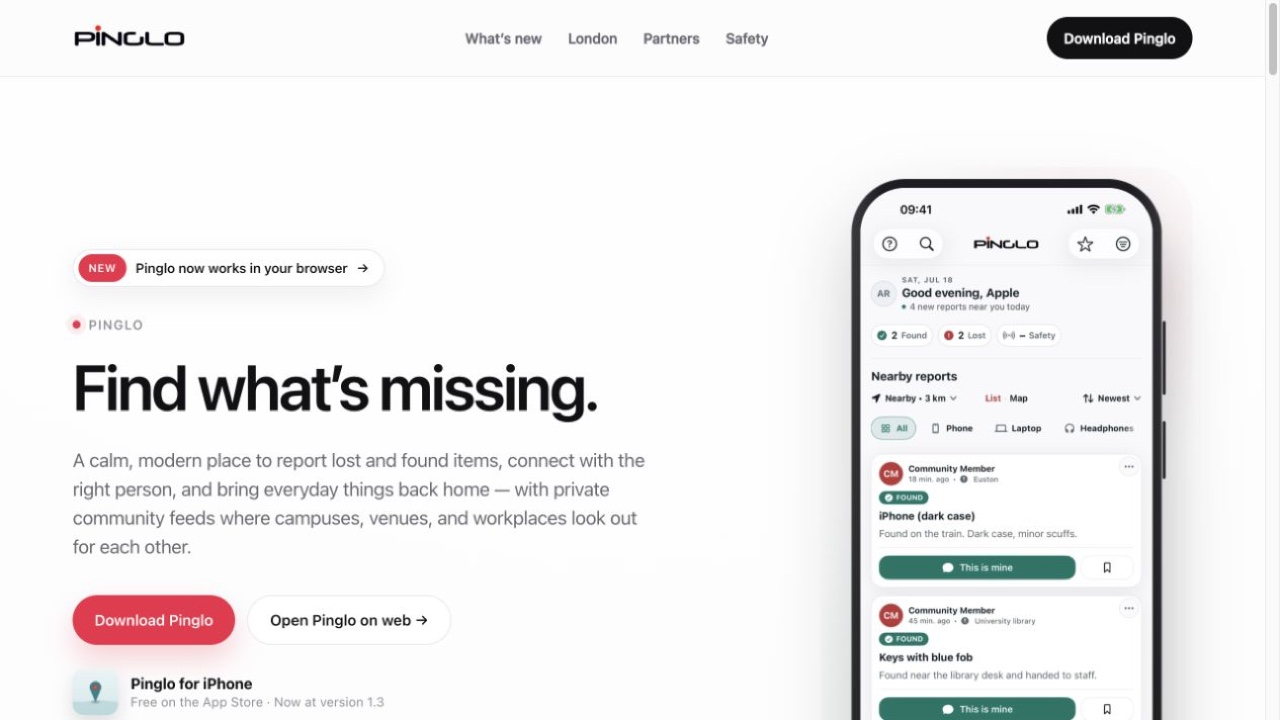
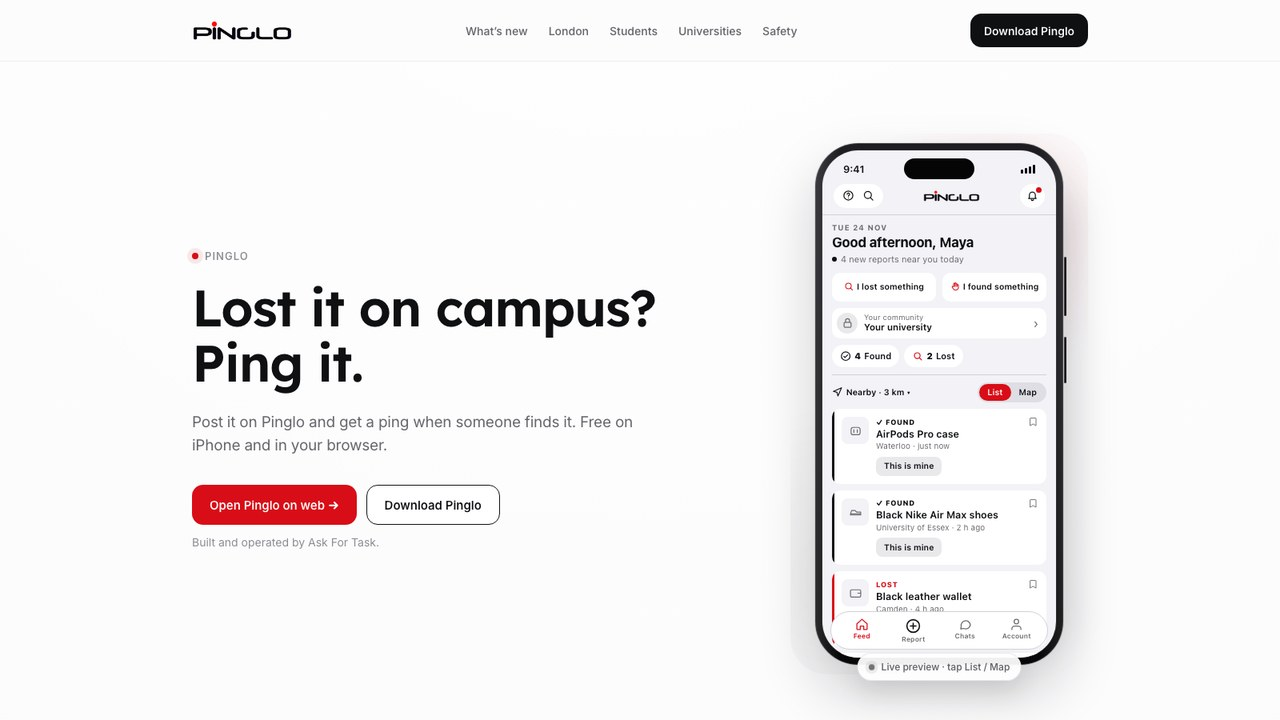
Refresh Pinglo’s case study, current product imagery and web links

diff --git a/public/case-studies/pinglo/index.html b/public/case-studies/pinglo/index.html
@@ -4,7 +4,7 @@
   <meta charset="utf-8">
   <meta name="viewport" content="width=device-width,initial-scale=1">
   <title>Pinglo App & Web Product Case Study | A4T Studio</title>
-  <meta name="description" content="See how A4T Studio built and operates Pinglo across iPhone and web, combining lost-and-found reports, safer returns, and private place-based communities.">
+  <meta name="description" content="How A4T Studio built Pinglo, a campus lost-and-found service with possible matches, private claim checks and handovers, available on iPhone and web.">
   <meta name="robots" content="index, follow, max-image-preview:large">
   <meta name="author" content="A4T Studio">
   <meta name="theme-color" content="#f4f4f0">
@@ -12,18 +12,18 @@
   <meta property="og:site_name" content="A4T Studio">
   <meta property="og:locale" content="en_GB">
   <meta property="og:title" content="Pinglo App & Web Product Case Study | A4T Studio">
-  <meta property="og:description" content="See how A4T Studio built and operates Pinglo across iPhone and web, combining lost-and-found reports, safer returns, and private place-based communities.">
+  <meta property="og:description" content="How A4T Studio built Pinglo, a campus lost-and-found service with possible matches, private claim checks and handovers, available on iPhone and web.">
   <meta property="og:type" content="article">
   <meta property="og:url" content="https://askfortask.co.uk/case-studies/pinglo/">
-  <meta property="og:image" content="https://askfortask.co.uk/assets/websites/pinglo-website.jpg?v=a21521ab1947">
+  <meta property="og:image" content="https://askfortask.co.uk/assets/websites/pinglo-website.jpg?v=df52475a6848">
   <meta property="og:image:width" content="1280">
   <meta property="og:image:height" content="720">
   <meta property="og:image:type" content="image/jpeg">
   <meta property="og:image:alt" content="Pinglo lost-and-found product running across iPhone and web">
   <meta name="twitter:card" content="summary_large_image">
   <meta name="twitter:title" content="Pinglo App & Web Product Case Study | A4T Studio">
-  <meta name="twitter:description" content="See how A4T Studio built and operates Pinglo across iPhone and web, combining lost-and-found reports, safer returns, and private place-based communities.">
-  <meta name="twitter:image" content="https://askfortask.co.uk/assets/websites/pinglo-website.jpg?v=a21521ab1947">
+  <meta name="twitter:description" content="How A4T Studio built Pinglo, a campus lost-and-found service with possible matches, private claim checks and handovers, available on iPhone and web.">
+  <meta name="twitter:image" content="https://askfortask.co.uk/assets/websites/pinglo-website.jpg?v=df52475a6848">
   <meta name="twitter:image:alt" content="Pinglo lost-and-found product running across iPhone and web">
   <link rel="icon" href="/favicon.ico" sizes="any">
   <link rel="icon" href="/assets/a4t-mark-soft.svg?v=21e859ee598d" type="image/svg+xml">
@@ -32,11 +32,11 @@
       "@context": "https://schema.org",
       "@type": "Article",
       "@id": "https://askfortask.co.uk/case-studies/pinglo/#article",
-      "headline": "Pinglo: one lost-and-found product across iPhone and web",
+      "headline": "Pinglo: a clearer way to get lost things back",
       "description": "How A4T Studio planned, designed, built, launched, and continues to operate Pinglo across iPhone and web.",
       "dateModified": "2026-09-04",
       "mainEntityOfPage": "https://askfortask.co.uk/case-studies/pinglo/",
-      "image": "https://askfortask.co.uk/assets/websites/pinglo-website.jpg?v=a21521ab1947",
+      "image": "https://askfortask.co.uk/assets/websites/pinglo-website.jpg?v=df52475a6848",
       "inLanguage": "en-GB",
       "author": {"@id": "https://askfortask.co.uk/#organization"},
       "publisher": {
@@ -111,30 +111,30 @@
       <div class="container split">
         <div class="subhero-inner">
           <div class="eyebrow">Owned and operated by A4T Studio</div>
-          <h1 class="responsive-title">Pinglo: one lost-and-found product across iPhone and web.</h1>
-          <p>Pinglo brings reports, sightings, claim checks, messages, safer returns, and private community feeds into one synced service. A4T Studio shaped the product, identity, delivery, launch, and continued operation.</p>
+          <h1 class="responsive-title">Pinglo: a clearer way to get lost things back.</h1>
+          <p>When students lose something, it’s hard to know where to look or who to ask. We built Pinglo to make reporting, checking a match and arranging a return easier, from an iPhone or a browser.</p>
           <div class="hero-actions">
             <a class="button button-primary" href="/go/pinglo-app-store?source=pinglo-case-study" rel="noopener noreferrer">View on the App Store</a>
-            <a class="button button-secondary" href="/go/pinglo?source=pinglo-case-study" rel="noopener noreferrer">Open Pinglo on web</a>
+            <a class="button button-secondary" href="/go/pinglo-web?source=pinglo-case-study" rel="noopener noreferrer">Open Pinglo on web</a>
           </div>
         </div>
         <figure class="case-hero-visual case-website-proof">
-          <picture><source srcset="/assets/websites/pinglo-website-480.avif?v=420db5600753 480w, /assets/websites/pinglo-website-800.avif?v=a94e653a32df 800w" sizes="(max-width: 760px) 100vw, 60vw" type="image/avif"><img src="/assets/websites/pinglo-website.jpg?v=a21521ab1947" width="1280" height="720" alt="Current Pinglo homepage showing the live lost-and-found feed on iPhone and a link to the web app"></picture>
-          <figcaption><strong>Live on iPhone and web</strong><span>One account, synced across both</span></figcaption>
+          <picture><source srcset="/assets/websites/pinglo-website-480.avif?v=2e0a1514a5b4 480w, /assets/websites/pinglo-website-800.avif?v=f759e1468418 800w" sizes="(max-width: 760px) 100vw, 60vw" type="image/avif"><img src="/assets/websites/pinglo-website.jpg?v=df52475a6848" width="1280" height="720" alt="Pinglo’s public homepage with a campus lost-and-found preview and links to the web app and iPhone download"></picture>
+          <figcaption><strong>Pinglo’s public website</strong><span>From finding out how it works to posting a report</span></figcaption>
         </figure>
       </div>
     </section>
 
     <section class="section section-contrast">
       <div class="container split">
-        <div><div class="section-kicker">The problem</div><h2>A familiar situation with no consistent process.</h2></div>
-        <div><p class="lead">When an item is lost or found, information is spread across venues, social posts, messages, and informal handovers. People may not know where to report it, how to identify a genuine match, or how to arrange a safe return.</p><p>Pinglo was created to organise those steps across a phone or browser, while giving campuses, venues, and workplaces their own private feed.</p></div>
+        <div><div class="section-kicker">The problem</div><h2>Lost property has too many places to look.</h2></div>
+        <div><p class="lead">On a campus, a phone left behind might turn up at reception, in a group chat or at the library. A report gives people one place to start. When there’s a possible match, the owner can get a notification.</p><p>A private detail helps check ownership, then the two people can arrange a public handover in chat. Universities can also run a private feed with their own hand-in points.</p></div>
       </div>
     </section>
 
     <section class="section app-reality-section">
       <div class="container">
-        <div class="section-header services-heading-row"><div><div class="section-kicker">A4T Studio's role</div><h2>One project covering product, brand, launch, and operation.</h2></div><p class="lead">Pinglo is an A4T Studio venture. The work therefore continued beyond a prototype or design file into the practical needs of a public service.</p></div>
+        <div class="section-header services-heading-row"><div><div class="section-kicker">A4T Studio's role</div><h2>From the first brief to a live service.</h2></div><p class="lead">We defined the service, designed the identity and reporting flow, built the iPhone and browser apps, and continue to run both.</p></div>
         <div class="app-type-grid case-delivery-grid">
           <article><span>01</span><h3>Product definition</h3><p>Turned the broad problem into users, workflows, priorities, screens, trust requirements, and a focused first release.</p><strong>Scope and product route</strong></article>
           <article><span>02</span><h3>UX &amp; interface</h3><p>Designed reporting, discovery, sightings, claims, messaging, profiles, community feeds, and safety journeys around clear everyday actions.</p><strong>Working interaction system</strong></article>
@@ -148,32 +148,35 @@
 
     <section class="section pinglo-interface-section" aria-labelledby="pinglo-interface-title">
       <div class="container">
-        <div class="section-header services-heading-row"><div><div class="section-kicker">The live interface</div><h2 id="pinglo-interface-title">A working product visitors can inspect.</h2></div><p class="lead">These genuine product screens show the nearby feed, guided reporting, private claim checks, and messages. The same account now works through the browser app.</p></div>
+        <div class="section-header services-heading-row"><div><div class="section-kicker">The live interface</div><h2 id="pinglo-interface-title">See the iPhone app.</h2></div><p class="lead">Screens from the current App Store listing show the feed, reporting, claim checks and messages.</p></div>
         <div class="pinglo-screen-grid">
-          <figure class="pinglo-screen"><img src="/assets/pinglo/feed.png?v=e3731ee3931e" width="720" height="1564" alt="Pinglo nearby reports feed" loading="lazy"><figcaption><span>01</span><strong>Nearby reports</strong></figcaption></figure>
-          <figure class="pinglo-screen"><img src="/assets/pinglo/report.png?v=dfb86a069182" width="720" height="1564" alt="Pinglo lost or found item reporting flow" loading="lazy"><figcaption><span>02</span><strong>Guided reporting</strong></figcaption></figure>
-          <figure class="pinglo-screen"><img src="/assets/pinglo/claim.png?v=d660aca3baa8" width="720" height="1564" alt="Pinglo private detail claim check" loading="lazy"><figcaption><span>03</span><strong>Private claim check</strong></figcaption></figure>
-          <figure class="pinglo-screen"><img src="/assets/pinglo/chats.png?v=ec8ea4757026" width="720" height="1564" alt="Pinglo private messages screen" loading="lazy"><figcaption><span>04</span><strong>Private messages</strong></figcaption></figure>
+          <figure class="pinglo-screen"><img src="/assets/pinglo/feed-app-store.webp?v=826c0092d901" width="720" height="1564" alt="Pinglo nearby reports feed" loading="lazy"><figcaption><strong>Nearby reports</strong></figcaption></figure>
+          <figure class="pinglo-screen"><img src="/assets/pinglo/report-app-store.webp?v=265577b1d1fe" width="720" height="1564" alt="Pinglo lost or found item reporting flow" loading="lazy"><figcaption><strong>Guided reporting</strong></figcaption></figure>
+          <figure class="pinglo-screen"><img src="/assets/pinglo/claim-app-store.webp?v=33317522aa6e" width="720" height="1564" alt="Pinglo private detail claim check" loading="lazy"><figcaption><strong>Private claim check</strong></figcaption></figure>
+          <figure class="pinglo-screen"><img src="/assets/pinglo/chats-app-store.webp?v=09e3451d9daa" width="720" height="1564" alt="Pinglo private messages screen" loading="lazy"><figcaption><strong>Private messages</strong></figcaption></figure>
         </div>
       </div>
     </section>
 
-    <section class="section design-process-section">
-      <div class="container">
-        <div class="section-header services-heading-row"><div><div class="section-kicker">Delivery route</div><h2>Built as a sequence of decisions, not one large guess.</h2></div><p class="lead">The process moved from defining the service to designing core journeys, building and testing the product, preparing launch, and supporting the live release.</p></div>
-        <div class="pricing-route">
-          <article><span>01</span><h3>Define</h3><p>Clarify the users, problem, trust needs, and smallest useful product.</p><strong>Product brief</strong></article>
-          <article><span>02</span><h3>Design</h3><p>Map the key flows and turn them into an interface that can be built and tested.</p><strong>UX and UI</strong></article>
-          <article><span>03</span><h3>Build &amp; test</h3><p>Develop the shared service across iPhone and web, review real behaviour, fix issues, and prepare public releases.</p><strong>Release candidates</strong></article>
-          <article><span>04</span><h3>Launch &amp; improve</h3><p>Publish the product, support the service, and ship changes around live user and partner needs.</p><strong>Monthly product releases</strong></article>
+    <section class="section" aria-labelledby="pinglo-browser-title">
+      <div class="container split">
+        <div>
+          <div class="section-kicker">Browser app</div>
+          <h2 id="pinglo-browser-title">The same account on the web.</h2>
+          <p class="lead">Use Pinglo from a laptop or Android browser with the same account as the iPhone app.</p>
+          <a class="text-link" href="/go/pinglo-web?source=pinglo-case-study">Try the browser app &rarr;</a>
         </div>
+        <figure class="case-hero-visual case-website-proof">
+          <img src="/assets/pinglo/browser-feed.webp?v=bd2c5db9b191" width="1200" height="675" alt="Pinglo browser app showing its lost-and-found feed" loading="lazy" decoding="async">
+          <figcaption><strong>Pinglo in the browser</strong><span>Lost-and-found reports and filters</span></figcaption>
+        </figure>
       </div>
     </section>
 
     <section class="section pinglo-result-section">
       <div class="container split">
         <div><div class="section-kicker">The result</div><h2>A live service for individuals and busy places.</h2></div>
-        <div><p class="lead">Pinglo is live on iPhone and in the browser. People can browse the feed, post reports, send sightings, verify claims, message privately, and join place-based communities with the same synced account.</p><p>Hotels, universities, stations, venues, gyms, and managed buildings can also use Pinglo as one front door for lost property, hand-in guidance, safety alerts, and safer returns.</p><div class="hero-actions"><a class="button button-primary" href="/go/pinglo?source=pinglo-case-study" rel="noopener noreferrer">Open the live web app</a><a class="button button-secondary" href="/app-development/">Explore app development</a></div></div>
+        <div><p class="lead">Pinglo is live on iPhone and in the browser. People can post reports, check possible matches and arrange returns through private messages.</p><p>Universities can try a private campus feed through Pinglo’s one-term pilot.</p><div class="hero-actions"><a class="button button-primary" href="/go/pinglo-web?source=pinglo-case-study" rel="noopener noreferrer">Open the live web app</a><a class="button button-secondary" href="/app-development/">Explore app development</a></div></div>
       </div>
     </section>
 

diff --git a/public/website-development/index.html b/public/website-development/index.html
@@ -158,8 +158,8 @@
             <div class="home-work-proof-copy"><div class="home-work-proof-meta"><span>Family-connected client</span><small>Brand, commercial structure, website, and launch routes delivered by A4T Studio</small></div><h3>DMAR International</h3><p>An independent marine assurance site organised around defined engagement packages, technical scopes, representative assignments, and project enquiries.</p><div class="home-work-proof-links"><a href="/case-studies/dmar-international/">Read the case study &rarr;</a><a href="/go/dmar-international?source=website-development" rel="noopener noreferrer">Open the website &nearr;</a></div></div>
           </article>
           <article class="home-work-proof-item">
-            <a class="home-work-proof-media website-proof-media" href="/go/pinglo?source=website-development" rel="noopener noreferrer" aria-label="Open the Pinglo website"><picture><source srcset="/assets/websites/pinglo-website-480.avif?v=420db5600753 480w, /assets/websites/pinglo-website-800.avif?v=a94e653a32df 800w" sizes="(max-width: 760px) 100vw, 50vw" type="image/avif"><img src="/assets/websites/pinglo-website.jpg?v=a21521ab1947" width="1280" height="720" alt="Current Pinglo website presenting its live iPhone and browser product" loading="lazy"></picture></a>
-            <div class="home-work-proof-copy"><div class="home-work-proof-meta"><span>Owned and operated</span><small>Product website and browser app maintained by A4T Studio</small></div><h3>Pinglo</h3><p>A product website that now leads directly into the synced browser app, alongside the iPhone download, partnership routes, safety guidance, and release updates.</p><div class="home-work-proof-links"><a href="/go/pinglo?source=website-development" rel="noopener noreferrer">Open Pinglo &nearr;</a><a href="/case-studies/pinglo/">Product case study &rarr;</a></div></div>
+            <a class="home-work-proof-media website-proof-media" href="/go/pinglo?source=website-development" rel="noopener noreferrer" aria-label="Open the Pinglo website"><picture><source srcset="/assets/websites/pinglo-website-480.avif?v=2e0a1514a5b4 480w, /assets/websites/pinglo-website-800.avif?v=f759e1468418 800w" sizes="(max-width: 760px) 100vw, 50vw" type="image/avif"><img src="/assets/websites/pinglo-website.jpg?v=df52475a6848" width="1280" height="720" alt="Current Pinglo website presenting its live iPhone and browser product" loading="lazy"></picture></a>
+            <div class="home-work-proof-copy"><div class="home-work-proof-meta"><span>Owned and operated</span><small>Product website and browser app maintained by A4T Studio</small></div><h3>Pinglo</h3><p>A product website that explains campus lost and found and takes visitors directly to the browser app, iPhone download, university pilot and safety guidance.</p><div class="home-work-proof-links"><a href="/go/pinglo?source=website-development" rel="noopener noreferrer">Visit the Pinglo website &nearr;</a><a href="/case-studies/pinglo/">Product case study &rarr;</a></div></div>
           </article>
         </div>
       </div>

diff --git a/public/index.html b/public/index.html
@@ -172,8 +172,8 @@
         </div>
         <div class="home-work-proof-grid">
           <article class="home-work-proof-item">
-            <a class="home-work-proof-media website-proof-media" href="/case-studies/pinglo/" aria-label="Read the Pinglo product case study"><picture><source srcset="/assets/websites/pinglo-website-480.avif?v=420db5600753 480w, /assets/websites/pinglo-website-800.avif?v=a94e653a32df 800w" sizes="(max-width: 760px) 100vw, 50vw" type="image/avif"><img src="/assets/websites/pinglo-website.jpg?v=a21521ab1947" width="1280" height="720" alt="Current Pinglo website showing the live lost-and-found product on iPhone and web" loading="lazy"></picture></a>
-            <div class="home-work-proof-copy"><div class="home-work-proof-meta"><span>Live on iPhone + web</span><small>Owned and operated by A4T Studio</small></div><h3>Pinglo</h3><p>A lost-and-found app for iPhone and web, from first idea to live product.</p><div class="home-work-proof-links"><a href="/case-studies/pinglo/">Case study &rarr;</a><a href="/go/pinglo?source=home" rel="noopener noreferrer">Open Pinglo &nearr;</a></div></div>
+            <a class="home-work-proof-media website-proof-media" href="/case-studies/pinglo/" aria-label="Read the Pinglo product case study"><picture><source srcset="/assets/websites/pinglo-website-480.avif?v=2e0a1514a5b4 480w, /assets/websites/pinglo-website-800.avif?v=f759e1468418 800w" sizes="(max-width: 760px) 100vw, 50vw" type="image/avif"><img src="/assets/websites/pinglo-website.jpg?v=df52475a6848" width="1280" height="720" alt="Current Pinglo website showing the live lost-and-found product on iPhone and web" loading="lazy"></picture></a>
+            <div class="home-work-proof-copy"><div class="home-work-proof-meta"><span>Live on iPhone + web</span><small>Owned and operated by A4T Studio</small></div><h3>Pinglo</h3><p>Campus lost and found with possible matches, private claim checks and one account across iPhone and web.</p><div class="home-work-proof-links"><a href="/case-studies/pinglo/">Case study &rarr;</a><a href="/go/pinglo?source=home" rel="noopener noreferrer">Visit the Pinglo website &nearr;</a></div></div>
           </article>
           <article class="home-work-proof-item">
             <a class="home-work-proof-media website-proof-media" href="/case-studies/dmar-international/" aria-label="Read the DMAR International case study"><picture><source srcset="/assets/websites/dmar-international-480.avif?v=d14701c9ef95 480w, /assets/websites/dmar-international-800.avif?v=36017889c59a 800w" sizes="(max-width: 760px) 100vw, 50vw" type="image/avif"><img src="/assets/websites/dmar-international.jpg?v=ea5a850d1a23" width="1280" height="720" alt="Current DMAR International website presenting independent assurance before mobilisation" loading="lazy"></picture></a>

diff --git a/public/brand-development/index.html b/public/brand-development/index.html
@@ -224,8 +224,8 @@
         </div>
         <div class="home-work-proof-grid brand-proof-grid">
           <article class="home-work-proof-item">
-            <a class="home-work-proof-media website-proof-media" href="/case-studies/pinglo/"><picture><source srcset="/assets/websites/pinglo-website-480.avif?v=420db5600753 480w, /assets/websites/pinglo-website-800.avif?v=a94e653a32df 800w" sizes="(max-width: 760px) 100vw, 50vw" type="image/avif"><img src="/assets/websites/pinglo-website.jpg?v=a21521ab1947" width="1280" height="720" alt="Current Pinglo product website showing its iPhone and browser experience" loading="lazy"></picture></a>
-            <div class="home-work-proof-copy"><div class="home-work-proof-meta"><span>Owned and operated</span><small>Product, identity, iPhone, web, and launch</small></div><h3>Pinglo</h3><p>An A4T Studio venture carried from problem definition to a live, synced product across iPhone and web.</p><div class="home-work-proof-links"><a href="/case-studies/pinglo/">Read the case study &rarr;</a><a href="/go/pinglo?source=brand-development" rel="noopener noreferrer">Open Pinglo &nearr;</a></div></div>
+            <a class="home-work-proof-media website-proof-media" href="/case-studies/pinglo/"><picture><source srcset="/assets/websites/pinglo-website-480.avif?v=2e0a1514a5b4 480w, /assets/websites/pinglo-website-800.avif?v=f759e1468418 800w" sizes="(max-width: 760px) 100vw, 50vw" type="image/avif"><img src="/assets/websites/pinglo-website.jpg?v=df52475a6848" width="1280" height="720" alt="Current Pinglo product website showing its iPhone and browser experience" loading="lazy"></picture></a>
+            <div class="home-work-proof-copy"><div class="home-work-proof-meta"><span>Owned and operated</span><small>Product, identity, iPhone, web, and launch</small></div><h3>Pinglo</h3><p>The identity for a campus lost-and-found service, carried through the iPhone app, browser product and public website.</p><div class="home-work-proof-links"><a href="/case-studies/pinglo/">Read the case study &rarr;</a><a href="/go/pinglo?source=brand-development" rel="noopener noreferrer">Open Pinglo &nearr;</a></div></div>
           </article>
           <article class="home-work-proof-item">
             <a class="home-work-proof-media website-proof-media" href="/case-studies/dmar-international/"><picture><source srcset="/assets/websites/dmar-international-480.avif?v=d14701c9ef95 480w, /assets/websites/dmar-international-800.avif?v=36017889c59a 800w" sizes="(max-width: 760px) 100vw, 50vw" type="image/avif"><img src="/assets/websites/dmar-international.jpg?v=ea5a850d1a23" width="1280" height="720" alt="Current DMAR International marine assurance website homepage" loading="lazy"></picture></a>

diff --git a/public/app-development/index.html b/public/app-development/index.html
@@ -232,14 +232,14 @@
         <div class="container app-proof">
         <div>
           <div class="section-kicker">A live example</div>
-          <h2>Pinglo: one idea, now live on iPhone and web.</h2>
-          <p class="lead">Pinglo began as one everyday problem and is now a synced product across the App Store and browser. Your app can serve a completely different customer, organisation, or workflow.</p>
+          <h2>Pinglo, from product idea to iPhone and web.</h2>
+          <p class="lead">We turned a campus lost-property problem into a working service. These App Store screens show how people browse reports, post an item and check ownership.</p>
           <div class="hero-actions"><a class="button button-secondary" href="/case-studies/pinglo/">Read the Pinglo case study</a></div>
         </div>
         <div class="pinglo-screen-grid pinglo-screen-grid-compact" aria-label="Pinglo interface examples">
-          <figure class="pinglo-screen"><img src="/assets/pinglo/feed.png?v=e3731ee3931e" width="720" height="1564" alt="Pinglo nearby reports feed" loading="lazy"><figcaption><span>01</span><strong>Live feed</strong></figcaption></figure>
-          <figure class="pinglo-screen"><img src="/assets/pinglo/report.png?v=dfb86a069182" width="720" height="1564" alt="Pinglo report flow" loading="lazy"><figcaption><span>02</span><strong>Report flow</strong></figcaption></figure>
-          <figure class="pinglo-screen"><img src="/assets/pinglo/claim.png?v=d660aca3baa8" width="720" height="1564" alt="Pinglo claim check" loading="lazy"><figcaption><span>03</span><strong>Claim check</strong></figcaption></figure>
+          <figure class="pinglo-screen"><img src="/assets/pinglo/feed-app-store.webp?v=826c0092d901" width="720" height="1564" alt="Pinglo nearby reports feed" loading="lazy"><figcaption><strong>Live feed</strong></figcaption></figure>
+          <figure class="pinglo-screen"><img src="/assets/pinglo/report-app-store.webp?v=265577b1d1fe" width="720" height="1564" alt="Pinglo report flow" loading="lazy"><figcaption><strong>Report flow</strong></figcaption></figure>
+          <figure class="pinglo-screen"><img src="/assets/pinglo/claim-app-store.webp?v=33317522aa6e" width="720" height="1564" alt="Pinglo claim check" loading="lazy"><figcaption><strong>Claim check</strong></figcaption></figure>
         </div>
       </div>
     </section>

diff --git a/public/ventures/index.html b/public/ventures/index.html
@@ -91,14 +91,14 @@
         <div class="venture-copy">
           <div class="section-kicker">First public venture</div>
           <h2>Pinglo is live on iPhone and web.</h2>
-          <p class="lead">Pinglo helps people report and find items, send sightings, check claims, message privately, and join place-based communities. It shows how A4T Studio can grow one idea into an operating cross-device product.</p>
+          <p class="lead">We built Pinglo to help people on campus report lost items, spot possible matches and arrange a return. It’s available on iPhone and in a browser.</p>
           <div class="hero-actions"><a class="button button-secondary" href="/case-studies/pinglo/">Read the case study</a></div>
         </div>
         <div class="venture-card">
-          <div class="venture-brand"><img class="venture-appicon" src="/assets/pinglo-appicon.png?v=b302e369f2df" alt="Pinglo app icon" width="512" height="512"><div class="venture-name"><strong>Pinglo</strong><span>Lost &amp; Found</span></div></div>
-          <p>Lost-and-found made calmer across iPhone and web, with synced reports, messages, sightings, claim checks, and private community feeds.</p>
-          <p><strong>Current product</strong><span>One account now works across the iPhone app and browser, supported by a partnership route for busy places.</span></p>
-          <div class="venture-actions"><a class="venture-primary-link" href="/go/pinglo?source=ventures" rel="noopener">Open Pinglo on web</a><a href="/go/pinglo-app-store?source=ventures" rel="noopener">View the App Store</a></div>
+          <div class="venture-brand"><img class="venture-appicon" src="/assets/pinglo/app-store-icon.png?v=5ef830ee1404" alt="Pinglo icon from the App Store" width="512" height="512"><div class="venture-name"><strong>Pinglo</strong><span>Lost &amp; Found</span></div></div>
+          <p>Post a report, check a claim and arrange a return in private chat.</p>
+          <p><strong>Current product</strong><span>One account works across iPhone and web. Universities can try a private campus feed.</span></p>
+          <div class="venture-actions"><a class="venture-primary-link" href="/go/pinglo-web?source=ventures" rel="noopener">Open Pinglo on web</a><a href="/go/pinglo-app-store?source=ventures" rel="noopener">View the App Store</a></div>
         </div>
       </div>
     </section>

diff --git a/public/about/index.html b/public/about/index.html
@@ -152,7 +152,7 @@
             <img class="pinglo-mark" src="/assets/pinglo-mark.svg?v=5c0922b95287" alt="Pinglo" width="1024" height="1024" loading="lazy" decoding="async">
             <span class="founder-product-arrow" aria-hidden="true">↗</span>
           </a>
-          <figcaption><span>Digital product</span><strong>Pinglo, carried from an everyday idea to iPhone and web.</strong></figcaption>
+          <figcaption><span>Digital product</span><strong>Pinglo, the campus lost-and-found service we built for iPhone and web.</strong></figcaption>
         </figure>
       </div>
     </section>
@@ -182,7 +182,7 @@
               <ol class="founder-timeline">
                 <li><span>01</span><div><strong>The original idea</strong><h3>Ask, connect, complete.</h3><p>Someone needs help, the right person joins the work, and the result, timing, and cost are agreed together.</p></div></li>
                 <li><span>02</span><div><strong>1 March 2023</strong><h3>ASK FOR TASK LTD is registered.</h3><p>The company gives the idea a formal home. A4T Studio is its customer-facing trading name.</p></div></li>
-                <li><span>03</span><div><strong>Our own product</strong><h3>Pinglo launches and keeps growing.</h3><p>Planning, identity, development, testing, and operation now come together across a live iPhone app and synced browser product owned by ASK FOR TASK LTD.</p><a class="text-link" href="/case-studies/pinglo/">Read the Pinglo story &rarr;</a></div></li>
+                <li><span>03</span><div><strong>Our own product</strong><h3>Pinglo launches and keeps growing.</h3><p>We built and launched Pinglo to help people report, find and safely return lost items. ASK FOR TASK LTD runs the iPhone and browser service.</p><a class="text-link" href="/case-studies/pinglo/">Read the Pinglo story &rarr;</a></div></li>
                 <li><span>04</span><div><strong>Today</strong><h3>Creative and digital project delivery.</h3><p>Brand, website, app and photography projects built around the right professional roles. Designers, developers and other specialists can share their experience for future briefs.</p></div></li>
               </ol>
             </div>

diff --git a/src/worker.js b/src/worker.js
@@ -25,6 +25,7 @@ export const PARTNER_DESTINATIONS = Object.freeze({
   "photography-instagram": "https://www.instagram.com/piazenko_nikita/",
   "photography-portfolio": "https://askfortask.co.uk/portfolio/",
   "pinglo": "https://pingloapp.com/",
+  "pinglo-web": "https://pingloapp.com/app",
   "pinglo-app-store": "https://apps.apple.com/gb/app/pinglo-lost-found/id6768083250"
 });
 
